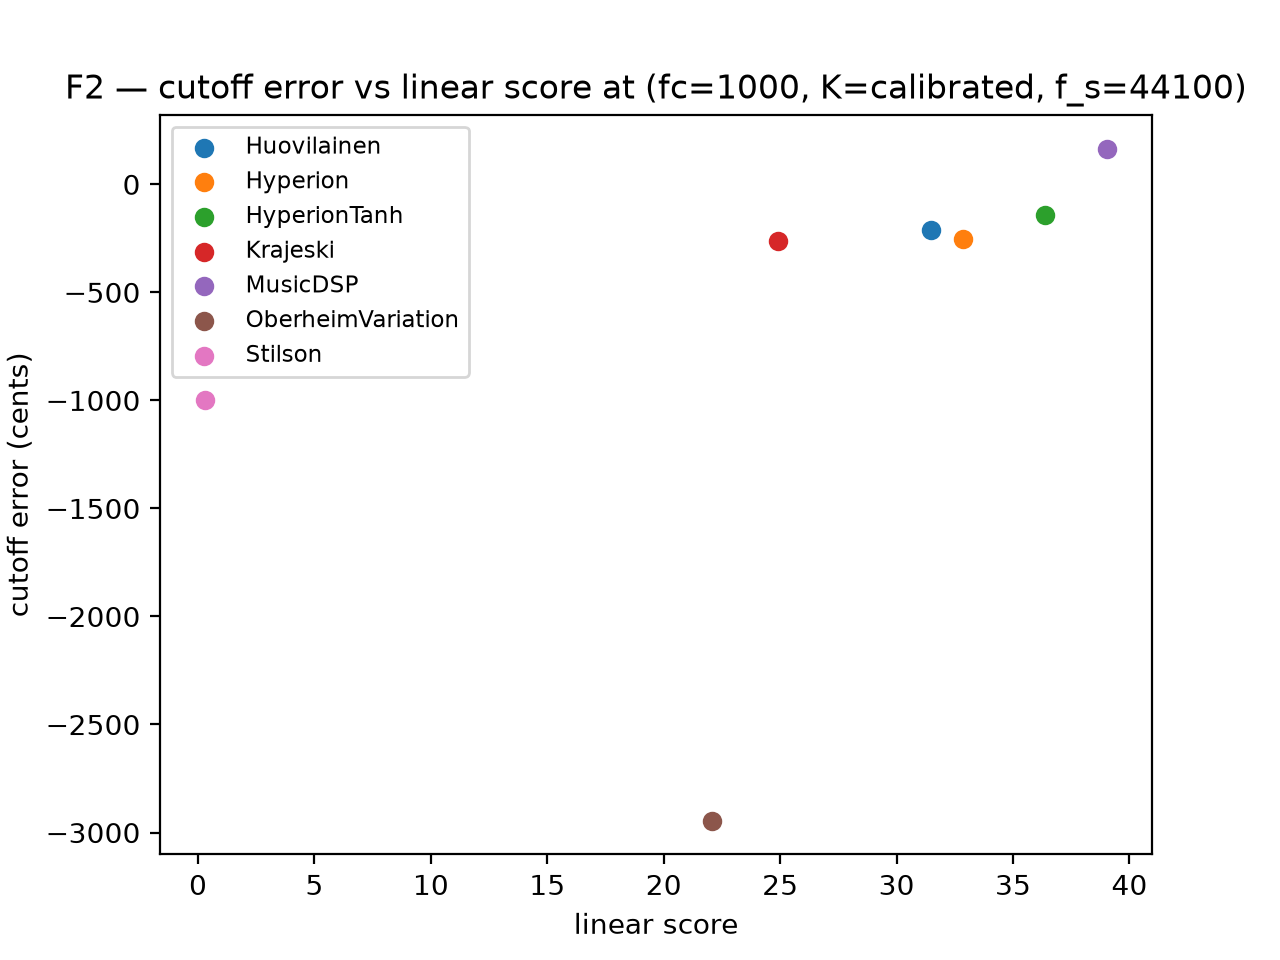
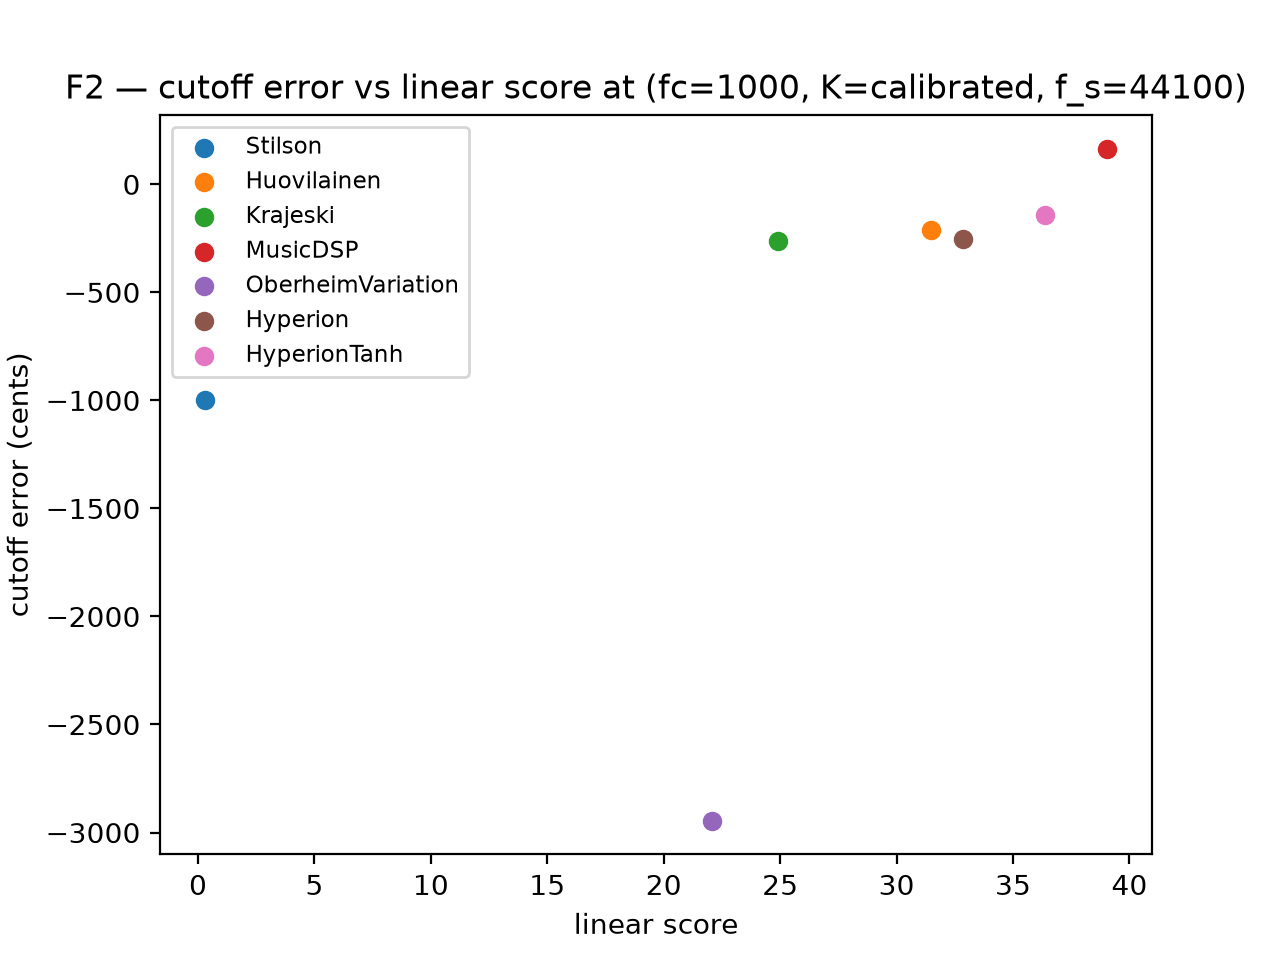
draw one model-aligned oracle and fix render order

diff --git a/tests/test_report.py b/tests/test_report.py
@@ -47,8 +47,9 @@ def _record(status="ok", **overrides):
                     "spectral_distance_db": 3.4,
                     "thd_model_percent": 0.05,
                     "thd_oracle_percent": 0.02,
-                    "harmonic_profile_db_model": [-20.0] * 10,
-                    "harmonic_profile_db_oracle": [-30.0] * 10,
+                    # H1 is the fundamental against itself: 0.0 dB, or the profile is not dB re H1.
+                    "harmonic_profile_db_model": [0.0] + [-20.0] * 9,
+                    "harmonic_profile_db_oracle": [0.0] + [-30.0] * 9,
                 },
             },
             "nonlinear_score": 48.0,
@@ -78,6 +79,7 @@ def _captured_axes(monkeypatch, tmp_path, recs):
             "ylabel": ax.get_ylabel(),
             "title": ax.get_title(),
             "labels": [line.get_label() for line in ax.get_lines()],
+            "ydata": [list(line.get_ydata()) for line in ax.get_lines()],
         }
 
     monkeypatch.setattr(matplotlib.figure.Figure, "savefig", fake_savefig)
@@ -87,6 +89,158 @@ def _captured_axes(monkeypatch, tmp_path, recs):
         plt.close("all")
     assert len(seen) == 6, sorted(seen)
     return seen
+
+
+F3_CASE = "fc1000.0_lvl-6.0_os0"
+ORACLE_PROFILE_FIELD = "harmonic_profile_db_oracle"
+ORACLE_THD_FIELD = "thd_oracle_percent"
+
+
+def _with_cases(model, oracle_profile, oracle_thd, model_profile=None, score=50.0):
+    """A record carrying all five -6 dBFS-ish levels, with oracle values of its own."""
+    cases = {}
+    for i, level in enumerate(fe.LEVELS_DBFS):
+        cases[f"fc1000.0_lvl{level}_os0"] = {
+            "spectral_distance_db": 3.0 + i,
+            "thd_model_percent": 1.0 + i,
+            "thd_oracle_percent": oracle_thd[i],
+            "harmonic_profile_db_model": list(model_profile or oracle_profile),
+            "harmonic_profile_db_oracle": list(oracle_profile),
+        }
+    return _record(model=model,
+                   nonlinear={"cases": cases, "nonlinear_score": score},
+                   linear={"measured": {"fc1000.0_os0": {"cutoff_3db_error_cents": -25.0}},
+                           "linear_score": score})
+
+
+def test_oracle_pick_walks_model_names_order_not_insertion_order():
+    """The oracle on a record is model-aligned, so there is no one true oracle.
+
+    nonlinear_metrics runs the oracle through align_signals, whose shift comes
+    from cross-correlating the model, so the same input yields a different oracle
+    THD and harmonic profile on every model: in the committed run, H2 at -6 dBFS
+    ranges from -67.94 dB on Stilson to -73.78 dB on Improved. Picking "the first
+    record in the dict" makes which oracle gets drawn a property of the caller's
+    dict order, and the committed F3 and F4 were drawn from different models while
+    both said "oracle".
+    """
+    stilson = _with_cases("Stilson", [-67.94] + [-80.0] * 9, [12.98] * 5)
+    musicdsp = _with_cases("MusicDSP", [-72.96] + [-90.0] * 9, [13.01] * 5)
+    forward = {"Stilson": stilson, "MusicDSP": musicdsp}
+    backward = dict(reversed(list(forward.items())))
+
+    for recs in (forward, backward):
+        assert fe._oracle_pick(recs, F3_CASE, ORACLE_PROFILE_FIELD) == [-67.94] + [-80.0] * 9
+        assert fe._oracle_pick(recs, F3_CASE, ORACLE_THD_FIELD) == 12.98
+    assert fe._oracle_source(forward) == "Stilson"
+    assert fe._oracle_source(backward) == "Stilson"
+
+
+def test_oracle_pick_skips_models_that_measured_nothing():
+    """No usable oracle is no oracle line, not a drawn NaN and a legend entry."""
+    nan_rec = _with_cases("Stilson", [float("nan")] * 10, [float("nan")] * 5)
+    assert fe._oracle_pick({"Stilson": nan_rec}, F3_CASE, ORACLE_PROFILE_FIELD) is None
+    assert fe._oracle_pick({"Stilson": nan_rec}, F3_CASE, ORACLE_THD_FIELD) is None
+    assert fe._oracle_source({"Stilson": nan_rec}) is None
+
+    flagged = _with_cases("Stilson", [-67.94] + [-80.0] * 9, [12.98] * 5)
+    flagged["status"] = "flagged"
+    assert fe._oracle_pick({"Stilson": flagged}, F3_CASE, ORACLE_PROFILE_FIELD) is None
+    assert fe._oracle_source({"Stilson": flagged}) is None
+
+    errored = _with_cases("Stilson", [-67.94] + [-80.0] * 9, [12.98] * 5)
+    errored["nonlinear"] = None
+    assert fe._oracle_pick({"Stilson": errored}, F3_CASE, ORACLE_PROFILE_FIELD) is None
+
+    assert fe._oracle_pick({}, F3_CASE, ORACLE_PROFILE_FIELD) is None
+    assert fe._oracle_source({}) is None
+    # A named model with nothing on it does not fall back to another model.
+    assert fe._oracle_pick({"MusicDSP": _with_cases("MusicDSP", [-72.96] + [-90.0] * 9, [13.01] * 5)},
+                           F3_CASE, ORACLE_PROFILE_FIELD, model="Stilson") is None
+
+
+def test_f3_and_f4_draw_the_same_models_oracle(monkeypatch, tmp_path):
+    """One oracle, chosen once, for both figures that draw one."""
+    recs = {
+        "Improved": _with_cases("Improved", [-73.78] + [-95.0] * 9, [12.96] * 5),
+        "Stilson": _with_cases("Stilson", [-67.94] + [-80.0] * 9, [12.98] * 5),
+    }
+    assert fe._oracle_source(recs) == "Stilson"
+
+    seen = _captured_axes(monkeypatch, tmp_path, recs)
+    f3 = seen["F3_harmonic_spectrum.png"]
+    assert f3["ydata"][f3["labels"].index("oracle")] == [-67.94] + [-80.0] * 9
+    f4 = seen["F4_thd_vs_level.png"]
+    assert f4["ydata"][f4["labels"].index("oracle")] == [12.98] * 5
+
+    # When the enum-first model measured no oracle at all, both figures move to
+    # the next one together rather than one of them keeping a stale line.
+    for level in fe.LEVELS_DBFS:
+        case = recs["Stilson"]["nonlinear"]["cases"][f"fc1000.0_lvl{level}_os0"]
+        case[ORACLE_PROFILE_FIELD] = [float("nan")] * 10
+        case[ORACLE_THD_FIELD] = float("nan")
+    assert fe._oracle_source(recs) == "Improved"
+    seen = _captured_axes(monkeypatch, tmp_path, recs)
+    f3 = seen["F3_harmonic_spectrum.png"]
+    assert f3["ydata"][f3["labels"].index("oracle")] == [-73.78] + [-95.0] * 9
+    f4 = seen["F4_thd_vs_level.png"]
+    assert f4["ydata"][f4["labels"].index("oracle")] == [12.96] * 5
+
+
+def test_the_oracle_source_speaks_for_a_figure_it_cannot_serve(monkeypatch, tmp_path):
+    """A model with oracle THD but no profile at the F3 case still speaks for it.
+
+    Moving the source to another model for one figure is the bug this pass fixed,
+    so the source stays put and F3 draws no oracle line instead. A missing line is
+    a gap; a second "oracle" is a contradiction.
+    """
+    recs = {
+        "Stilson": _with_cases("Stilson", [-67.94] + [-80.0] * 9, [12.98] * 5),
+        "Improved": _with_cases("Improved", [-73.78] + [-95.0] * 9, [12.96] * 5),
+    }
+    recs["Stilson"]["nonlinear"]["cases"][F3_CASE][ORACLE_PROFILE_FIELD] = [float("nan")] * 10
+    assert fe._oracle_source(recs) == "Stilson"
+
+    seen = _captured_axes(monkeypatch, tmp_path, recs)
+    f3 = seen["F3_harmonic_spectrum.png"]
+    assert "oracle" not in f3["labels"], f3["labels"]
+    f4 = seen["F4_thd_vs_level.png"]
+    assert f4["ydata"][f4["labels"].index("oracle")] == [12.98] * 5
+
+
+def test_no_oracle_line_when_no_model_measured_one(monkeypatch, tmp_path):
+    nan_rec = _with_cases("Stilson", [float("nan")] * 10, [float("nan")] * 5)
+    seen = _captured_axes(monkeypatch, tmp_path, {"Stilson": nan_rec})
+    for name in ("F3_harmonic_spectrum.png", "F4_thd_vs_level.png"):
+        assert "oracle" not in seen[name]["labels"], seen[name]["labels"]
+
+
+def test_figures_are_byte_identical_whatever_the_record_order(tmp_path):
+    """The same records must produce the same bytes, whoever assembles the dict.
+
+    main builds records in MODEL_NAMES order; a script that reads the metrics
+    directory back builds them in filename order. Both are the same twelve
+    measurements, and a figure set whose colors and oracle depend on which one ran
+    is not reproducible from the committed PNGs.
+    """
+    import hashlib
+
+    names = ["MusicDSP", "Stilson", "Huovilainen", "Improved", "RKSimulation"]
+    recs = {
+        name: _with_cases(name, [-60.0 - i] + [-90.0] * 9, [12.0 + i] * 5,
+                          model_profile=[-70.0 - i] + [-91.0] * 9, score=40.0 + 5 * i)
+        for i, name in enumerate(names)
+    }
+    forward, backward = tmp_path / "fwd", tmp_path / "bwd"
+    fe.generate_figures(recs, forward)
+    fe.generate_figures(dict(reversed(list(recs.items()))), backward)
+    for path in sorted(forward.glob("*.png")):
+        other = backward / path.name
+        assert path.read_bytes() == other.read_bytes(), (
+            path.name,
+            hashlib.sha256(path.read_bytes()).hexdigest()[:12],
+            hashlib.sha256(other.read_bytes()).hexdigest()[:12],
+        )
 
 
 def test_f3_axis_is_relative_to_the_fundamental(monkeypatch, tmp_path):
@@ -99,6 +253,11 @@ def test_f3_axis_is_relative_to_the_fundamental(monkeypatch, tmp_path):
     """
     seen = _captured_axes(monkeypatch, tmp_path, {"A": _record()})
     assert seen["F3_harmonic_spectrum.png"]["ylabel"] == "dB re H1"
+    # The premise the label rests on, asserted on a record rather than asserted
+    # in a docstring: the first entry is the fundamental against itself.
+    rec = _record()
+    for field in (ORACLE_PROFILE_FIELD, "harmonic_profile_db_model"):
+        assert rec["nonlinear"]["cases"][F3_CASE][field][0] == 0.0
 
 
 def test_titles_name_the_figure_instead_of_repeating_the_tag(monkeypatch, tmp_path):
@@ -139,6 +298,14 @@ def test_captions_state_only_the_operating_points_the_data_has(monkeypatch, tmp_
         assert calls[tag].get("level") is not None, calls[tag]
     for tag, op in calls.items():
         assert op.get("f_s") == fe.SAMPLE_RATE, op
+    # F3 and F4 compare the model at absolute k=2.0, which is the operating point
+    # collect_nonlinear holds fixed, so the caption has to say so. F1 and F2 sweep
+    # k or use the calibrated r, and F5/F6 span cases; naming one number there
+    # would be the same fabrication as naming a level they do not have.
+    for tag in ("F3", "F4"):
+        assert calls[tag].get("K") == 2, calls[tag]
+    for tag in ("F1", "F2", "F5", "F6"):
+        assert calls[tag].get("K") != 2, calls[tag]
 
 
 def test_harmonic_profile_drops_nan_profiles():
@@ -150,14 +317,14 @@ def test_harmonic_profile_drops_nan_profiles():
     """
     key = "fc1000.0_lvl-6.0_os0"
     field = "harmonic_profile_db_model"
-    assert fe._harmonic_profile(_record(), key, field) == [-20.0] * 10
+    assert fe._harmonic_profile(_record(), key, field) == [0.0] + [-20.0] * 9
 
     nan_rec = _record()
     nan_rec["nonlinear"]["cases"][key][field] = [float("nan")] * 10
     assert fe._harmonic_profile(nan_rec, key, field) is None
 
     one_bad = _record()
-    one_bad["nonlinear"]["cases"][key][field] = [-20.0] * 9 + [None]
+    one_bad["nonlinear"]["cases"][key][field] = [0.0] + [-20.0] * 8 + [None]
     assert fe._harmonic_profile(one_bad, key, field) is None
 
     assert fe._harmonic_profile(_record(), key, "missing_field") is None

diff --git a/scripts/faithfulness_eval.py b/scripts/faithfulness_eval.py
@@ -846,6 +846,9 @@ def score_nonlinear(metrics):
 
 
 LEVELS_DBFS = (-24.0, -18.0, -12.0, -6.0, -3.0)
+# The case the oracle baseline is drawn at: F3's harmonic profile comes from it
+# and it is one of the five levels F4's oracle THD series reads.
+ORACLE_CASE = "fc1000.0_lvl-6.0_os0"
 SWEEP_N = 131072
 IMPULSE_N = 32768
 DEFAULT_CUTOFFS = (100.0, 1000.0, 5000.0)
@@ -1191,16 +1194,78 @@ def _harmonic_profile(rec, key, field):
     return list(prof)
 
 
+def _ordered_names(records):
+    """Model names in the enum's order, then any name the enum does not carry.
+
+    Not decoration: matplotlib hands out colors in the order artists are created,
+    so the same twelve records assembled in a different dict order produce
+    different bytes. main builds records in MODEL_NAMES order and a script reading
+    the metrics directory back builds them in filename order, and both are the
+    same twelve measurements.
+    """
+    known = [name for name in MODEL_NAMES if name in records]
+    extra = sorted(name for name in records if name not in MODEL_NAMES)
+    return known + extra
+
+
+def _oracle_pick(records, case_key, field, model=None):
+    """One model's oracle value for one case, or None if nobody measured it.
+
+    There is no oracle to read off any record in general. nonlinear_metrics runs
+    the oracle through align_signals, whose shift is chosen by cross-correlating
+    THE MODEL, so the same input leaves a different oracle on every model: H2 at
+    -6 dBFS runs from -67.94 dB on Stilson to -73.78 dB on Improved in the
+    committed run. model=None means "first ok model in enum order with a finite
+    value"; generate_figures passes the name _oracle_source returned, so F3 and F4
+    draw one model's oracle rather than two models' under one label.
+    """
+    names = [model] if model is not None else _ordered_names(records)
+    for name in names:
+        rec = records.get(name)
+        if rec is None or not _ok(rec):
+            continue
+        value = (_case(rec, case_key) or {}).get(field)
+        if isinstance(value, (list, tuple)):
+            if value and all(_num(v) is not None for v in value):
+                return list(value)
+        elif _num(value) is not None:
+            return float(value)
+    return None
+
+
+def _oracle_source(records):
+    """The one model whose oracle F3 and F4 draw, or None.
+
+    Chosen once, by enum order, and only among models that actually carry an
+    oracle at one of the levels the figures read. Picking per figure instead is
+    what produced two different "oracle" lines in one commit: F3 took the first
+    record in dict order and F4 the last, and both said oracle.
+    """
+    for name in _ordered_names(records):
+        rec = records[name]
+        if not _ok(rec):
+            continue
+        if _harmonic_profile(rec, ORACLE_CASE, "harmonic_profile_db_oracle"):
+            return name
+        for level in LEVELS_DBFS:
+            if _num((_case(rec, f"fc1000.0_lvl{level}_os0") or {}).get("thd_oracle_percent")) is not None:
+                return name
+    return None
+
+
 def _score_bars(records):
     """(name, linear, nonlinear, combined) per rankable model, best combined first.
 
     A model enters only with both axes measured. One axis alone would be a bar
     scored out of 100 on an axis nobody looked at, and a flagged model has no
     ranking entry at all however good its survivors look: the flag is what says
-    the number does not stand for the model.
+    the number does not stand for the model. Iteration follows _ordered_names so
+    that two models on the same combined score keep the same order in every
+    caller, not the caller's dict order.
     """
     bars = []
-    for name, rec in records.items():
+    for name in _ordered_names(records):
+        rec = records[name]
         if not _ok(rec):
             continue
         lin = _num((rec.get("linear") or {}).get("linear_score"))
@@ -1232,6 +1297,14 @@ def generate_figures(records, out_dir):
     out_dir = Path(out_dir)
     out_dir.mkdir(parents=True, exist_ok=True)
     written = []
+    # One iteration order for the whole function, so the same records give the
+    # same bytes however the caller assembled the dict.
+    records = {name: records[name] for name in _ordered_names(records)}
+    # The oracle is model-aligned, so one model is chosen to speak for it and both
+    # figures that draw one read that same model. Neither, when nobody measured it.
+    oracle_model = _oracle_source(records)
+    oracle_prof = _oracle_pick(records, ORACLE_CASE, "harmonic_profile_db_oracle",
+                               model=oracle_model)
 
     def legend(ax):
         if ax.get_legend_handles_labels()[0]:
@@ -1278,19 +1351,18 @@ def generate_figures(records, out_dir):
 
     # F3: harmonic spectrum at -6 dBFS, oracle plus models.
     fig, ax = plt.subplots()
-    # The oracle profile is identical in every model's case; draw it once, from
-    # the first ok model that carries the case.
+    # The oracle is not the same on every record: align_signals shifts it by the
+    # model's own cross-correlation, so H2 at this case ranges over 6 dB across the
+    # twelve models. One representative oracle is drawn, from the enum-first ok
+    # model that carries a finite one, and that is the same model F4's oracle
+    # THD comes from.
+    if oracle_prof:
+        ax.plot(range(1, len(oracle_prof) + 1), oracle_prof,
+                color="k", linestyle="--", label="oracle")
     for name, rec in records.items():
         if not _ok(rec):
             continue
-        prof = _harmonic_profile(rec, "fc1000.0_lvl-6.0_os0", "harmonic_profile_db_oracle")
-        if prof:
-            ax.plot(range(1, len(prof) + 1), prof, color="k", linestyle="--", label="oracle")
-            break
-    for name, rec in records.items():
-        if not _ok(rec):
-            continue
-        prof = _harmonic_profile(rec, "fc1000.0_lvl-6.0_os0", "harmonic_profile_db_model")
+        prof = _harmonic_profile(rec, ORACLE_CASE, "harmonic_profile_db_model")
         if prof:
             ax.plot(range(1, len(prof) + 1), prof, label=name)
     ax.set_xlabel("harmonic order")
@@ -1304,7 +1376,13 @@ def generate_figures(records, out_dir):
     # F4: THD vs level, model lines plus oracle line.
     fig, ax = plt.subplots()
     model_thd = {}
-    oracle_by_level = {}
+    # Same source model as F3's oracle: one oracle across the figure set.
+    oracle_thd = []
+    for level in LEVELS_DBFS:
+        o = _oracle_pick(records, f"fc1000.0_lvl{level}_os0", "thd_oracle_percent",
+                         model=oracle_model)
+        if o is not None:
+            oracle_thd.append((level, o))
     for name, rec in records.items():
         if not _ok(rec):
             continue
@@ -1314,16 +1392,13 @@ def generate_figures(records, out_dir):
             t = _num(c.get("thd_model_percent"))
             if t is not None:
                 model_thd[name].append((level, t))
-            o = _num(c.get("thd_oracle_percent"))
-            if o is not None:
-                oracle_by_level[level] = o
     for name, pts in model_thd.items():
         if pts:
             pts.sort()
             ax.plot([p[0] for p in pts], [p[1] for p in pts], marker="o", label=name)
-    oracle_pts = sorted(oracle_by_level.items())
-    if oracle_pts:
-        ax.plot([p[0] for p in oracle_pts], [p[1] for p in oracle_pts],
+    if oracle_thd:
+        oracle_thd.sort()
+        ax.plot([p[0] for p in oracle_thd], [p[1] for p in oracle_thd],
                 color="k", linestyle="--", label="oracle")
     ax.set_xlabel("level (dBFS)")
     ax.set_ylabel("THD (%)")
